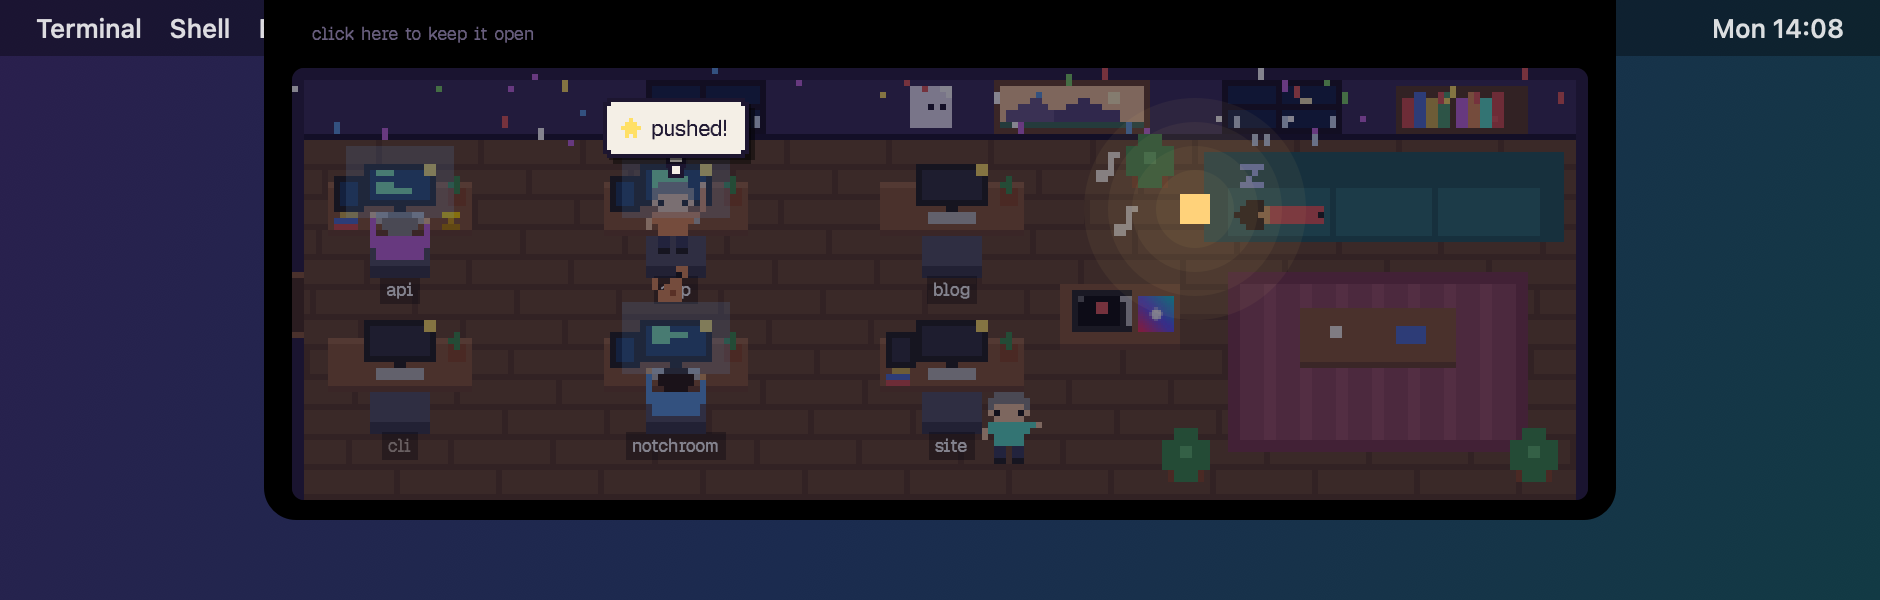
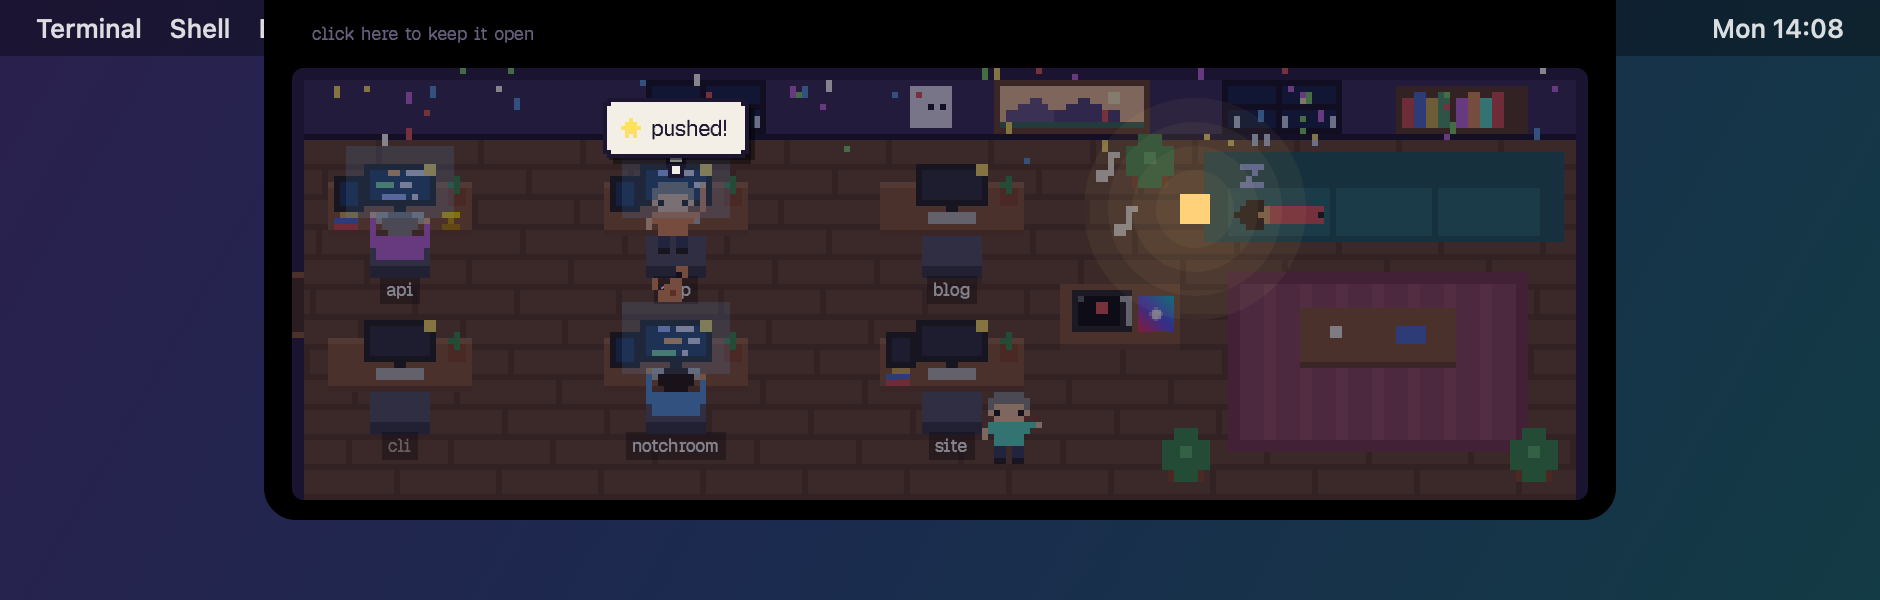
Reach sessions in VS Code; tell same-folder Ghostty terminals apart
Sessions in VS Code's terminal looked like terminal sessions and the button
did nothing: the walk up from claude stopped at Code Helper, a background
process, so activating it showed nothing. It now stops at the first app with
a Dock icon. The button is named after that app, and a VS Code-family editor
(VS Code, Cursor, Windsurf, VSCodium, found by their product.json) opens the
project's window. New session follows a project into its editor and opens a
Claude Code tab there through the extension's URL.

Ghostty can't say which terminal holds a process, so two sessions in one
folder always focused the first. The session's own tty now gets a marker
title for a moment, the terminal showing it is focused, and its old title is
put back.

A busy desk screen drew four stacked bars that read as an "F"; it now
scrolls indented lines of code with a blinking cursor.

diff --git a/Sources/Sessions.swift b/Sources/Sessions.swift
@@ -68,8 +68,19 @@ func growth(_ project: String) -> (commits: Int, released: Bool) {
 
 /// Opens a new Claude Code session in a project: a Ghostty tab (or window) that starts in the project and types
 /// `claude` into your shell, so the tab stays a normal shell afterwards; Terminal.app when Ghostty isn't installed.
-func newSession(_ project: String) {
+/// When the project already runs in a VS Code-family editor, there instead: its window, then a Claude Code tab.
+func newSession(_ project: String, in app: NSRunningApplication? = nil) {
     let path = "\(devDir.path)/\(project)"
+    if let bundle = app?.bundleURL, let scheme = editorScheme(bundle) {
+        NSWorkspace.shared.open([URL(fileURLWithPath: path)], withApplicationAt: bundle, configuration: NSWorkspace.OpenConfiguration()) { _, _ in
+            // the extension opens its tab in whichever window has focus, so ask once the project's window has it
+            // ponytail: a fixed second for the window to come forward, poll the frontmost window if that proves short
+            DispatchQueue.main.asyncAfter(deadline: .now() + 1) {
+                if let u = URL(string: "\(scheme)://anthropic.claude-code/open") { NSWorkspace.shared.open(u) }
+            }
+        }
+        return
+    }
     let ghostty = NSWorkspace.shared.urlForApplication(withBundleIdentifier: "com.mitchellh.ghostty") != nil
     let script = ghostty
         ? ["on run argv", "tell application \"Ghostty\"", "set cfg to new surface configuration",
@@ -86,33 +97,72 @@ func newSession(_ project: String) {
 
 /// A process's parent, from the kernel's process table. Unlike proc_pidinfo this also works across processes owned
 /// by root, such as the `login` that sits between a terminal app and its shells.
-func parent(_ pid: Int32) -> Int32? {
+func parent(_ pid: Int32) -> Int32? { kinfo(pid)?.kp_eproc.e_ppid }
+
+func kinfo(_ pid: Int32) -> kinfo_proc? {
     var info = kinfo_proc(), size = MemoryLayout<kinfo_proc>.stride, mib: [Int32] = [CTL_KERN, KERN_PROC, KERN_PROC_PID, pid]
     guard sysctl(&mib, 4, &info, &size, nil, 0) == 0, size > 0 else { return nil }
-    return info.kp_eproc.e_ppid
+    return info
 }
 
-/// Brings the terminal of a session to the front: in Ghostty the very terminal (matched by the session's
-/// directory), anywhere else the terminal app itself.
-// ponytail: two sessions started in the same directory, and Ghostty picks the first of them
-func focusTerminal(_ pid: Int32) {
-    var p = pid, app: NSRunningApplication?
+/// The terminal device a process writes to, such as /dev/ttys003; nil for one without a terminal.
+func tty(_ pid: Int32) -> String? {
+    guard let dev = kinfo(pid)?.kp_eproc.e_tdev, dev != -1, let name = devname(dev, S_IFCHR) else { return nil }
+    return "/dev/" + String(cString: name)
+}
+
+/// The URL scheme of a VS Code-family editor (VS Code, Cursor, Windsurf, VSCodium…), from its product.json; nil for
+/// any other app.
+func editorScheme(_ bundle: URL) -> String? {
+    guard let d = try? Data(contentsOf: bundle.appendingPathComponent("Contents/Resources/app/product.json")),
+          let j = try? JSONSerialization.jsonObject(with: d) as? [String: Any] else { return nil }
+    return j["urlProtocol"] as? String
+}
+
+/// The app a session runs in: the first ancestor with a Dock icon, so VS Code's terminal resolves to VS Code
+/// rather than to the Code Helper that owns its shells.
+func hostApp(_ pid: Int32) -> NSRunningApplication? {
+    var p = pid
     while p > 1 {
-        if let a = NSRunningApplication(processIdentifier: p) { app = a; break }
-        guard let up = parent(p) else { break }
+        if let a = NSRunningApplication(processIdentifier: p), a.activationPolicy == .regular { return a }
+        guard let up = parent(p) else { return nil }
         p = up
     }
-    guard let app else { return }
+    return nil
+}
+
+/// Brings the terminal of a session to the front: in Ghostty the very terminal, in a VS Code-family editor the
+/// window holding that folder, anywhere else the app itself. Ghostty can't tell which terminal holds a process, so
+/// when several share the session's directory, the session's own tty gets a marker title for a moment to find it.
+// ponytail: the marker can land mid-way through Claude's own output; a stray frame at worst, the next redraw fixes it
+func focusTerminal(_ pid: Int32) {
+    guard let app = hostApp(pid) else { return }
     var vinfo = proc_vnodepathinfo()
     let cwd = proc_pidinfo(pid, PROC_PIDVNODEPATHINFO, 0, &vinfo, Int32(MemoryLayout<proc_vnodepathinfo>.size)) > 0
         ? withUnsafeBytes(of: vinfo.pvi_cdir.vip_path) { String(decoding: $0.prefix { $0 != 0 }, as: UTF8.self) } : ""
+    if let bundle = app.bundleURL, editorScheme(bundle) != nil, !cwd.isEmpty {
+        NSWorkspace.shared.open([URL(fileURLWithPath: cwd)], withApplicationAt: bundle, configuration: NSWorkspace.OpenConfiguration()) // reuses the folder's window
+        return
+    }
     guard app.bundleIdentifier == "com.mitchellh.ghostty", !cwd.isEmpty else { app.activate(); return }
-    let script = ["on run argv", "tell application \"Ghostty\"", "repeat with t in terminals",
-                  "if working directory of t is item 1 of argv then", "focus t", "return", "end if", "end repeat", "activate",
-                  "end tell", "end run"]
+    let script = ["on run argv", "set {dir, dev, mark, osc} to argv", "tell application \"Ghostty\"", "set ts to {}",
+                  "repeat with t in terminals", "if working directory of t is dir then set end of ts to contents of t", "end repeat",
+                  "if (count of ts) is 0 then", "activate", "return", "end if",
+                  "if (count of ts) is 1 or dev is \"\" then", "focus item 1 of ts", "return", "end if",
+                  "set olds to {}", "repeat with t in ts", "set end of olds to name of t", "end repeat", "end tell",
+                  "do shell script \"printf \" & quoted form of osc & \" \" & quoted form of mark & \" > \" & quoted form of dev",
+                  "delay 0.2", "tell application \"Ghostty\"", "repeat with i from 1 to count of ts",
+                  "if name of item i of ts is mark then", "focus item i of ts",
+                  "do shell script \"printf \" & quoted form of osc & \" \" & quoted form of (item i of olds) & \" > \" & quoted form of dev",
+                  "return", "end if", "end repeat", "focus item 1 of ts", "end tell", "end run"]
     let run = Process()
     run.executableURL = URL(fileURLWithPath: "/usr/bin/osascript")
-    run.arguments = script.flatMap { ["-e", $0] } + [cwd] // the directory as an argument, never spliced into the script
+    // everything as arguments, never spliced into the script; osc is the set-title escape, printf's format
+    run.arguments = script.flatMap { ["-e", $0] } + [cwd, tty(pid) ?? "", "notchroom-\(pid)", "\u{1b}]2;%s\u{07}"]
     try? run.run()
 }
 
+/// The card's button for a session's app: "Open VS Code", "Open Ghostty", "Open terminal" when unknown.
+func openLabel(_ pid: Int32) -> String {
+    hostApp(pid)?.localizedName.map { $0 == "Code" ? "Open VS Code" : "Open \($0)" } ?? "Open terminal"
+}

diff --git a/Sources/Room.swift b/Sources/Room.swift
@@ -344,7 +344,15 @@ final class Room: NSView {
             px(dx, dy, 24, 9, 0x8a5a3b); px(dx, dy, 24, 1, 0x6a4430); px(dx, dy + 8, 24, 1, 0x9c6a48)
             px(dx + 6, dy + 5, 12, 7, 0x222222); px(dx + 11, dy + 4, 2, 1, 0x222222)
             px(dx + 7, dy + 6, 10, 5, busy ? 0x1e3a5f : 0x333340)
-            if busy { for k in 0..<4 where (tick / 3 + k * 7 + d) % 5 != 0 { px(dx + 8, dy + 7 + k, 1 + (tick / 3 + k * 3) % 6, 1, 0x7fe0a0) } }
+            if busy { // code scrolling up: three indented lines of two-colour tokens, a cursor blinking on the newest
+                let base = tick / 4 + d * 5
+                for k in 0..<3 {
+                    let n = base + k, y = dy + 10 - k * 2, indent = n * 7 % 3, a = 1 + n * 5 % 4, b = n * 3 % 4
+                    px(dx + 8 + indent, y, a, 1, [0x7fe0a0, 0x9fb4ff, 0xffb86c][n % 3])
+                    if b > 0 { px(dx + 9 + indent + a, y, b, 1, 0xe8e3f5) }
+                    if k == 2, tick / 2 % 2 == 0 { px(dx + 10 + indent + a + b, y, 1, 1, 0xffffff) }
+                }
+            }
             px(dx + 8, dy + 2, 8, 2, 0xbbbbbb)
             // decor that comes with growth: cactus at 25 commits, a second screen at 75, books at 150, a trophy at v1
             if g.commits >= 25 { px(dx + 20, dy + 5, 3, 3, 0x8b4a2b); px(dx + 21, dy + 7, 1, 3, 0x3f8f4f); px(dx + 20, dy + 8, 1, 1, 0x3f8f4f) }

diff --git a/Sources/Cards.swift b/Sources/Cards.swift
@@ -49,7 +49,7 @@ extension Room {
             } else if a.ask != nil, a.state == "waiting" {
                 c.lines.append(("waiting for permission: answer it in the terminal", 0xffb347, 0xffb347, nil))
                 if let pid = a.pid {
-                    c.buttons = [("Open terminal", 0x8a80a8, { focusTerminal(pid) })]
+                    c.buttons = [(openLabel(pid), 0x8a80a8, { focusTerminal(pid) })]
                 }
             } else if let what = a.doing, a.state == "working" {
                 c.lines.append((what, 0xe8e3f5, 0x5fd38d, nil))
@@ -57,8 +57,8 @@ extension Room {
         }
         if asker != nil { return c } // a permission question: keep the card short, the buttons in reach
         if c.buttons.isEmpty {
-            c.buttons = (here.first?.pid.map { pid in [("Open terminal", UInt32(0x8a80a8), { focusTerminal(pid) })] } ?? [])
-                + [("New session", 0x5fd38d, { newSession(proj) })]
+            c.buttons = (here.first?.pid.map { pid in [(openLabel(pid), UInt32(0x8a80a8), { focusTerminal(pid) })] } ?? [])
+                + [("New session", 0x5fd38d, { newSession(proj, in: here.first?.pid.flatMap(hostApp)) })]
         }
         let list = ideas[proj] ?? []
         if list.isEmpty {

diff --git a/README.md b/README.md
@@ -13,7 +13,7 @@ Running several Claude Code sessions at once means tabbing around to find out wh
 
 - **See every session at a glance.** Working, waiting for you, or idle, each one drawn where it is. Collapsed, the notch shows a head per session and one line of news: who needs you, or what the latest work is.
 - **Answer permission requests from the notch.** When a session asks to run something, the room opens with the full command and **Allow**, **Deny** and **Terminal** buttons.
-- **Jump to the right terminal, or start a new one.** Click a character or desk, then **Open terminal** to bring its terminal to the front (in Ghostty, the exact terminal), or **New session** to start a new Claude session in that project.
+- **Jump to the right terminal, or start a new one.** Click a character or desk, then **Open Ghostty** / **Open VS Code** (whichever app it runs in) to bring it to the front (in Ghostty the exact terminal, in VS Code the project's window), or **New session** to start a new Claude session in that project.
 - **A sound when you're needed.** For when you're looking at something else.
 - **What everyone is doing.** Click a desk: "Running make test", "Editing Room.swift", plus the project's commit count.
 - **Ideas on every desk.** Once a day per project, Claude Haiku reads the README and recent commits and pitches a few small features, which show up as speech bubbles. Click one to file it in [stash](https://github.com/pyvnoaim/stash).
@@ -57,7 +57,7 @@ Hover the notch to open the room; it closes when the mouse leaves. To keep it op
 
 | Click | Shows |
 | --- | --- |
-| A character | the project, what each session is doing, any permission question, the ideas, with **Open terminal** and **New session** |
+| A character | the project, what each session is doing, any permission question, the ideas, with **Open** (named after its app) and **New session** |
 | A desk | the same |
 | An idea in a card | files it in stash and takes it off the desk |
 | The wall clock | today's active time, tool calls and sessions, per project |
@@ -67,7 +67,7 @@ Hover the notch to open the room; it closes when the mouse leaves. To keep it op
 
 The room also opens by itself for a few seconds, with a sound, when a session starts waiting for you, and when a party starts.
 
-A new session opens as a Ghostty tab (or window) in the project's folder with `claude` typed into your shell, so the tab stays a normal shell when you quit it. Without Ghostty it opens in Terminal.
+A new session opens as a Ghostty tab (or window) in the project's folder with `claude` typed into your shell, so the tab stays a normal shell when you quit it. Without Ghostty it opens in Terminal. If the project already has a session in VS Code (or Cursor, Windsurf, VSCodium), it opens there instead: the project's window, then a Claude Code tab from the extension.
 
 ### Permission requests
 
@@ -92,7 +92,7 @@ sound = Tink
 
 All optional. notchroom works without any of them.
 
-- **Ghostty.** Clicking a character focuses the exact terminal it runs in, matched by directory. macOS asks once whether notchroom may control Ghostty. Other terminals are brought to the front as a whole.
+- **Ghostty.** Clicking a character focuses the exact terminal it runs in, matched by directory; when several terminals share it, the session's terminal title briefly carries a marker to find the right one. macOS asks once whether notchroom may control Ghostty. VS Code-family editors open the project's window; other apps are brought to the front as a whole.
 - **stash.** Filing an idea runs `claude -p` with only the `stash_capture` tool of a Claude Code MCP server named `stash`, so it uses the stash login Claude Code already has. The idea is filed as `<idea> @<project> #idea`.
 - **resona.** The record player reads `~/.resona/now-playing`, which resona writes whenever the song changes.
 
@@ -166,7 +166,6 @@ Text is drawn once into images and reused: the pixel font is a variable font, an
 ## Limitations
 
 - Six desks. With more than six projects active at once, the extra sessions only show in the collapsed notch.
-- Two sessions started in the same directory can't be told apart by Ghostty, so clicking either focuses the first one.
 - A permission request waits up to 20 seconds for the notch. If the terminal's prompt doesn't show while the notch waits, it shows up after you answer in the notch or press **Terminal**.
 
 ## Uninstall
